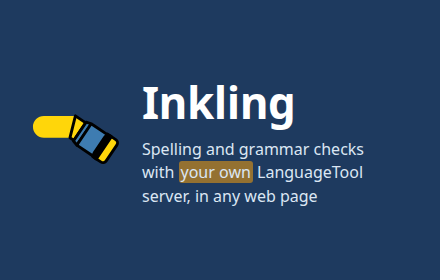
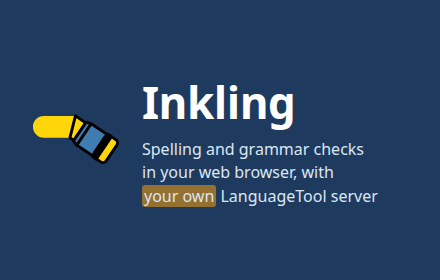
Say "in your web browser" in the store texts, README and promo tile
"On web pages" read as if Inkling worked on one website. The store
summary, the opening of both descriptions, the README and the promo
tile now say that it checks in the web browser. The single purpose and
permission texts for the reviewers keep "text fields on web pages",
which describes what the content script does.

Changed region(s): [[0.325, 0.5714, 0.8568, 0.7429]]

diff --git a/docs/store/listing.md b/docs/store/listing.md
@@ -25,13 +25,13 @@ AMO only. The Chrome Web Store shows the `description` from the manifest
 English (132 characters at most):
 
 ```text
-Checks spelling, grammar and style as you type on any web page, with a LanguageTool server you choose. No account, no tracking.
+Spelling, grammar and style checks in your web browser, with a LanguageTool server you choose. No account, no tracking.
 ```
 
 German:
 
 ```text
-Prüft Rechtschreibung, Grammatik und Stil beim Schreiben auf Webseiten, mit einem LanguageTool-Server Ihrer Wahl. Ohne Konto.
+Rechtschreib-, Grammatik- und Stilprüfung in Ihrem Webbrowser, mit einem LanguageTool-Server Ihrer Wahl. Ohne Konto.
 ```
 
 ## Description
@@ -39,7 +39,7 @@ Prüft Rechtschreibung, Grammatik und Stil beim Schreiben auf Webseiten, mit ein
 English:
 
 ```text
-Inkling marks spelling, grammar and style mistakes while you write in text fields on web pages: web mail, chat, social media, issue trackers, Google Docs and most rich text editors. Click a marked word to see the explanation and the suggestions; one more click applies a suggestion.
+Inkling checks spelling, grammar and style in your web browser. It marks mistakes while you write in web mail, chat, social media, issue trackers, Google Docs and most rich text editors. Click a marked word to see the explanation and the suggestions; one more click applies a suggestion.
 
 The checks come from a LanguageTool server that you set on the settings page. Run your own server (it is open source and runs on a laptop or a small server), use the one your team runs, or try the public server of LanguageTool. Inkling sends your text to that server and nowhere else. It works with every language that LanguageTool checks, among them English, German, French, Spanish, Dutch and Portuguese.
 
@@ -61,7 +61,7 @@ Source code: https://github.com/oetiker/inkling
 German:
 
 ```text
-Inkling markiert Rechtschreib-, Grammatik- und Stilfehler, während Sie in Textfeldern auf Webseiten schreiben: in Webmail, Chats, sozialen Medien, Issue-Trackern, Google Docs und den meisten Editoren für formatierten Text. Ein Klick auf ein markiertes Wort zeigt die Erklärung und die Vorschläge; ein weiterer Klick übernimmt einen Vorschlag.
+Inkling prüft Rechtschreibung, Grammatik und Stil in Ihrem Webbrowser. Es markiert Fehler, während Sie schreiben: in Webmail, Chats, sozialen Medien, Issue-Trackern, Google Docs und den meisten Editoren für formatierten Text. Ein Klick auf ein markiertes Wort zeigt die Erklärung und die Vorschläge; ein weiterer Klick übernimmt einen Vorschlag.
 
 Die Prüfung macht ein LanguageTool-Server, den Sie in den Einstellungen festlegen. Betreiben Sie Ihren eigenen Server (er ist quelloffen und läuft auf einem Laptop oder einem kleinen Server), nutzen Sie den Server Ihres Teams, oder testen Sie mit dem öffentlichen Server von LanguageTool. Inkling sendet Ihren Text an diesen Server und an keine andere Stelle. Inkling prüft alle Sprachen, die LanguageTool prüft, darunter Deutsch, Englisch, Französisch, Spanisch, Niederländisch und Portugiesisch.
 

diff --git a/README.md b/README.md
@@ -1,7 +1,7 @@
 # Inkling
 
-Inkling is a Chrome and Firefox extension that checks what you type on web pages with
-your own [LanguageTool](https://github.com/languagetool-org/languagetool)
+Inkling is a Chrome and Firefox extension that checks spelling and grammar in
+your web browser with your own [LanguageTool](https://github.com/languagetool-org/languagetool)
 server. Text goes only to the server you configure.
 
 This project is not affiliated with LanguageTooler GmbH or with Automattic.
